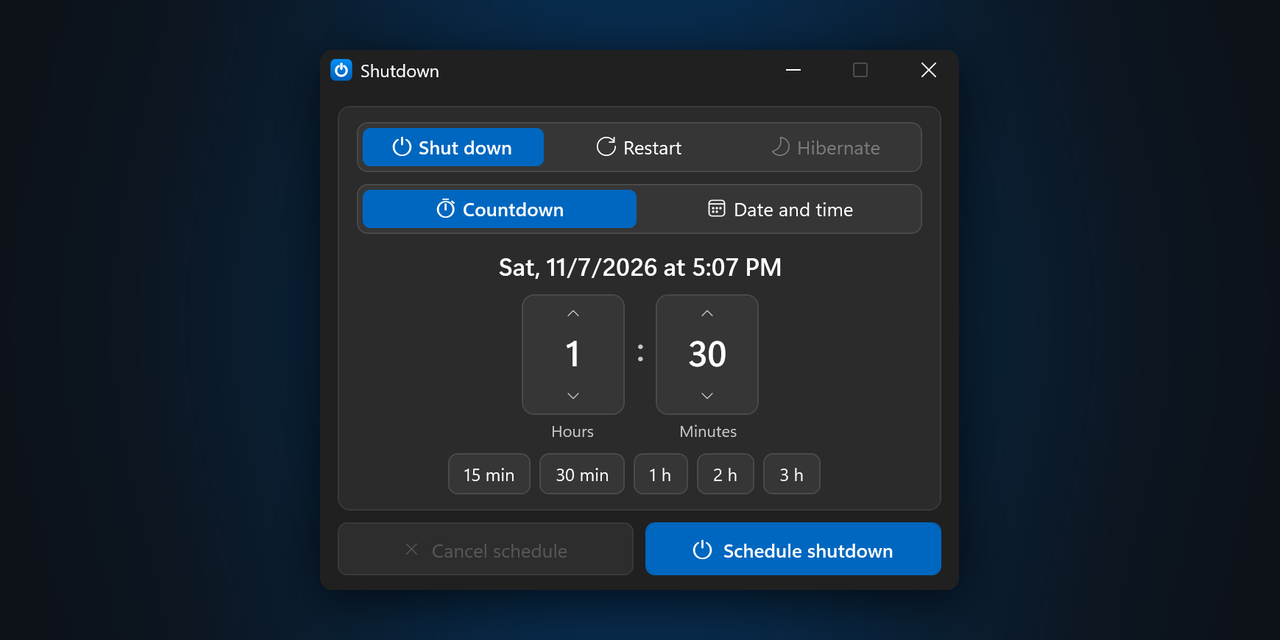
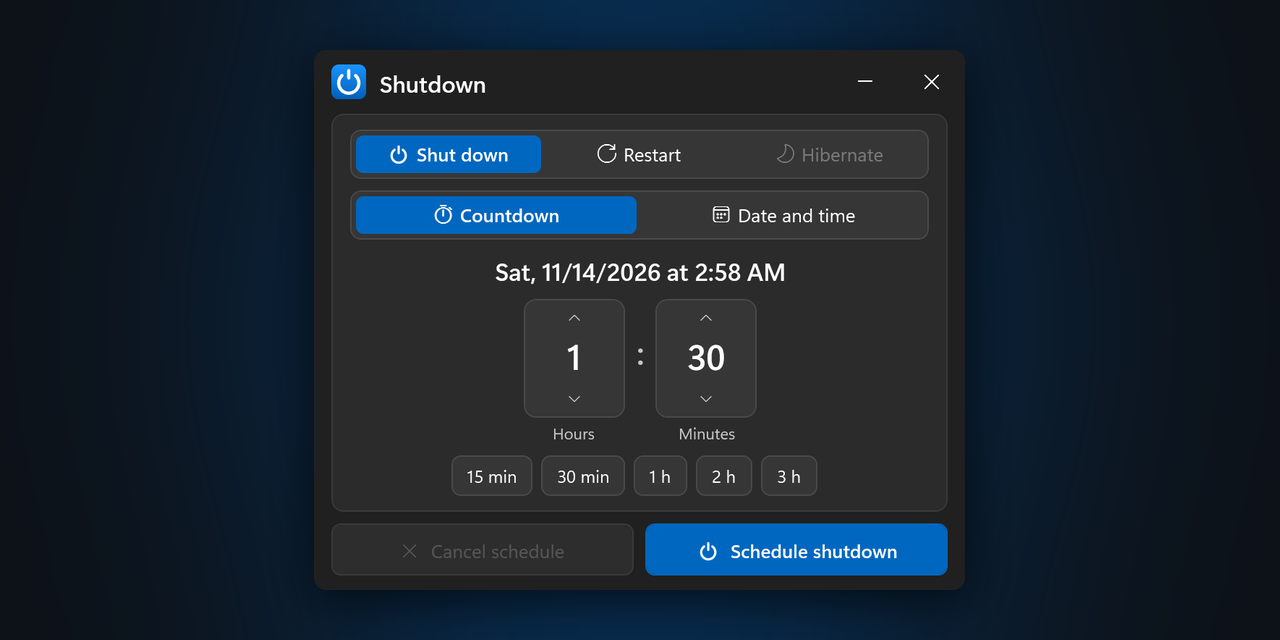
Prepare release 1.2.1

diff --git a/tools/make-images.py b/tools/make-images.py
@@ -1,16 +1,15 @@
 """Builds the README screenshot and the GitHub social preview.
 
-Usage: python tools/make-images.py <render.png> <window-shot.png>
-render.png: the client area at 200 % from tools/ShotHost (shot-render.png), dark theme
-(tests/vm/screenshot-setup.ps1). window-shot.png: a screen shot of the same window at 200 %,
-used only for the real title bar above the client area.
+Usage: python tools/make-images.py <render.png>
+render.png: the whole window at 200 % from tools/ShotHost (shot-render.png), dark theme
+(tests/vm/screenshot-setup.ps1). The app draws its own title bar, so the render already shows it.
 Writes docs/screenshot.png (window with rounded corners, transparent outside)
 and docs/social-preview.png (1280x640, window centred on a dark background).
 """
 import sys
 from pathlib import Path
 
-from PIL import Image, ImageChops, ImageDraw, ImageFilter, ImageStat
+from PIL import Image, ImageDraw, ImageFilter
 
 ROOT = Path(__file__).resolve().parent.parent
 RADIUS = 16  # Windows 11 window corner (8 px) at 200 %
@@ -44,37 +43,8 @@ def shadow(size, window, offset, radius):
     return layer.filter(ImageFilter.GaussianBlur(24))
 
 
-def title_bar(render, shot):
-    """Finds where the client area sits in the screen shot and returns the strip above it."""
-    probe = render.crop((0, 0, render.width, 30))
-    best = None
-    for y in range(20, 120):
-        for x in range(0, 40):
-            if x + render.width > shot.width:
-                break
-            d = sum(ImageStat.Stat(ImageChops.difference(shot.crop((x, y, x + render.width, y + 30)), probe)).mean)
-            if best is None or d < best[0]:
-                best = (d, x, y)
-    d, x, y = best
-    if d > 2:
-        sys.exit("client area not found in the window shot (difference %.1f)" % d)
-    # The shot can start a few rows above the window (desktop showing through): begin at the
-    # first row that matches the title bar background just below it.
-    def row(r):
-        return ImageStat.Stat(shot.crop((x, r, x + render.width, r + 1))).median
-    top = 0
-    while top < 8 and sum(abs(a - b) for a, b in zip(row(top), row(top + 4))) > 6:
-        top += 1
-    return shot.crop((x, top, x + render.width, y))
-
-
-def main(render_path, shot_path):
-    render = Image.open(render_path).convert("RGB")
-    bar = title_bar(render, Image.open(shot_path).convert("RGB"))
-    full = Image.new("RGB", (render.width, bar.height + render.height))
-    full.paste(bar, (0, 0))
-    full.paste(render, (0, bar.height))
-    window = rounded(full, RADIUS)
+def main(render_path):
+    window = rounded(Image.open(render_path).convert("RGB"), RADIUS)
     window.save(ROOT / "docs" / "screenshot.png", optimize=True)
 
     scale = PREVIEW_WINDOW_HEIGHT / window.height
@@ -88,4 +58,6 @@ def main(render_path, shot_path):
 
 
 if __name__ == "__main__":
-    main(sys.argv[1], sys.argv[2])
+    if len(sys.argv) != 2:
+        sys.exit(__doc__)
+    main(sys.argv[1])

diff --git a/CHANGELOG.md b/CHANGELOG.md
@@ -2,6 +2,20 @@
 
 All notable changes to this project are documented here. The format follows Keep a Changelog; versions follow semantic versioning.
 
+## [1.2.1] - 2026-11-14
+
+### Changed
+- The window has its own title bar with a larger logo and title; only Minimize and Close remain, the unused Maximize button is gone.
+- Starting a newer version while an older one is open closes the older one and opens the new one. Only while a hibernate countdown runs does the open window stay, and it says why.
+- The app icon is redrawn: a shorter stem with a clear gap to the ring, sharp at small sizes.
+- On the date page, Today sits on the left and Tomorrow on the right at the same width, so the date between the arrows is centred.
+- The hibernate note has a clearer info badge and an accent border.
+- The power symbol on the buttons is drawn as a vector, so its ring stays round at every display scale.
+- The cross on Cancel schedule is larger and level with the text.
+
+### Fixed
+- Starting the app while it is already open brings the open window to the front instead of leaving it behind other windows.
+
 ## [1.2.0] - 2026-11-07
 
 ### Changed

diff --git a/README.md b/README.md
@@ -76,6 +76,6 @@ Please report security problems privately, as described in [SECURITY.md](SECURIT
 
 ## License
 
-[MIT](LICENSE) © 2026 BGCoding
+[MIT](LICENSE)
 
 <p align="right">© 2026 BGCoding · Made with Claude</p>
